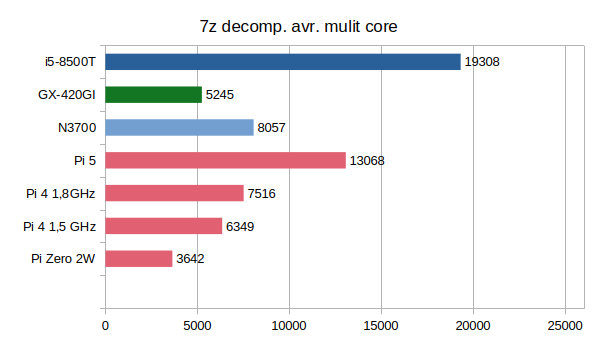
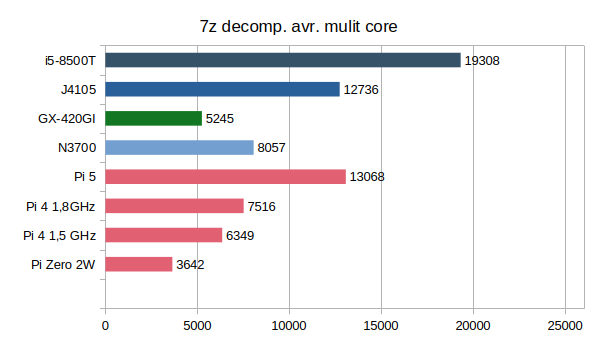
Dell Wyse 5070 (J4105)

Changed region(s): [[0.0301, 0.2353, 0.6611, 0.8235], [0.0601, 0.1471, 0.8414, 0.2059]]

diff --git a/content/post/PIvsTC.md b/content/post/PIvsTC.md
@@ -17,13 +17,11 @@ In der Lieferkettenkrise als man keine Raspberry Pi's kaufen konnte, musste man 
 
 Während der Corona-Pandemie kam es weltweit zu massiven Lieferengpässen bei Elektronikkomponenten – und der beliebte Raspberry Pi war besonders betroffen. Man konnte keine neuen bekommen oder nur zu total überzogenen Preisen. Auch die Gebrauchtpreise stiegen entsprechend. 
 
-In dieser Situation schienen sich gebrauchte Thin Clients als Alternative anzubieten. Ursprünglich für den Einsatz in Unternehmen konzipiert, bieten sie eine solide Hardwarebasis und sind oft günstig gebraucht erhältlich. Sie sind klein und sparsame aber auch mit eine ausreichend leistungsfähigen CPU (x86/AMD64) ausgestattet.    
-Ich entschied mich damals für ein Lenovo M600 (Intel N3700) und später noch für ein HP T630 (AMD GX-420GI) System. 
+In dieser Situation schienen sich gebrauchte Thin Clients als Alternative anzubieten. Ursprünglich für den Einsatz in Unternehmen konzipiert, bieten sie eine solide Hardwarebasis und sind oft günstig gebraucht erhältlich. Sie sind klein und sparsam, aber mit eine ausreichend leistungsfähigen CPU (x86/AMD64) ausgestattet.   
 
-Vergleicht man sie mit dem Raspberry Pi sticht zualler erst die gute Austattung und Erweiterbarkeit heraus. Sie Thin Clients werden zumeist mit Gehäuse, Netzteil, SSD/MMC und integrierter CPU Kühlung angeboten. Komponenten die man beim Pi erst nachkaufen muss.
-Beim RAM sind zuminest 4 GB vorhanden, der dann auch günstig auf z.B. 8 GB aufgerüstet werden kann. Beim Raspberry Pi muss man sich beim Kauf entscheiden und kann später nicht aufrüsten. Will man beim Pi5 eine M2-NVMe einsetzen, so muss man einen entsprechenden HAT kaufen. Beim Pi4 geht das nur über die USB-3.0 Schnittstelle.  
-Bei den zwei beispielhaften Thin Client kann man zwar nur M2-SATA einsetzen, aber diese sind bereits intern vorhanden (sogar 2 davon). Beim 
-M600 Kann man auch intern eine SSD einbauen.  
+Vergleicht man sie mit dem Raspberry Pi sticht zualler erst die gute Austattung und Erweiterbarkeit heraus. Die Thin Clients werden zumeist mit Gehäuse, Netzteil, SSD/MMC und integrierter CPU Kühlung angeboten. Komponenten die man beim Pi erst nachkaufen muss.
+Beim RAM sind zumindest 4 GB vorhanden, der günstig auf z. B. 8 GB aufgerüstet werden kann. Beim Raspberry Pi muss man sich beim Kauf entscheiden und kann später nicht aufrüsten. Will man beim Pi5 eine M.2-NVMe einsetzen, so muss man einen entsprechenden HAT bzw. Erweiterung kaufen. Beim Pi4 geht das nur über die USB-3.0 Schnittstelle.  
+Bei den beispielhaften Thin Client kann man zwar nur M.2-SATA einsetzen, aber diese sind bereits intern vorhanden (manche sogar mit 2). 
 Das sind doch einige Vorteile die für einen Thin Client sprechen.  
 
 Der Vorteil vom Rapsberry Pi liegt vorallem beim Energieverbrauch und natürlich bei den GPIOs. Ist eines davon kritisch für den Einsatz sollte man auf den Rapsberry Pi setzen!
@@ -37,12 +35,11 @@ Mögliche Händler:
  - Ebay - https://www.ebay.de und https://www.ebay.at
  - RAM-König - https://www.ram-koenig.de/
 
-Eine gute Webseite die sich mit der Analyse von Thin Clients gewidmet hat ist https://www.parkytowers.me.uk/thin/hp/t530/linux.shtml    
-
+Eine gute Webseite die sich mit der Analyse von Thin Clients gewidmet hat ist https://www.parkytowers.me.uk/thin/ .  
 
 
 Unabhängig von den offensichtlichen Unterschieden wollte ich mir den Energieverbrauch und die CPU Performance genauer ansehen.   
-Vorweg der Vergleich der CPU Leistung bei so unterschiedlichen Archikteuren ist schwierig und es kommt sehr auf den Benchmark an. Leider kann man die Systeme also nicht abschließend Bewerten, sondern es kommt immer auf den Einsatz an.
+Vorweg der Vergleich der CPU Leistung bei so unterschiedlichen Architiekturen ist schwierig und es kommt sehr auf den Benchmark an. Leider kann man die Performance also nicht abschließend bewerten, sondern es kommt immer auf den Einsatz an.
 
 ## Vor- und Nachteile
 
@@ -50,8 +47,8 @@ Vorweg der Vergleich der CPU Leistung bei so unterschiedlichen Archikteuren ist 
 
 &#x2705; Gebraucht günstiger als Pi4/Pi5 mit Komplettaustattung  
 &#x2705; RAM erweiterbar  
-&#x2705; M2 Sockel (NVMe oder SATA) und SATA  
-&#x2705; x86/AMD64, Möglicherweise Windows kompatibel  
+&#x2705; M.2 Sockel (NVMe oder SATA) und SATA, evtl auch eMMC  
+&#x2705; x86/AMD64, bessere Kompatibilität (z.B. Proxmox)  
 &#x2B55; Gebrauchtes günstiges Modell muss gefunden werden  
 &#x2705; Nachhaltig, Umweltschonender, Recycling
 
@@ -64,27 +61,75 @@ Vorweg der Vergleich der CPU Leistung bei so unterschiedlichen Archikteuren ist 
 &#x2705; CPU übertaktbar   
 &#x2B55; Netzteil, Lüfter und Gehäuse muss extra erworben werden.  
 &#x2B55; RAM nicht erweiterbar  
-&#x2B55; NVMe erst ab Pi5  
+&#x2B55; NVMe erst ab Pi5 mit Erweiterungshardware möglich
 
 
 ## Energieverbrauch 
 
 
-| System          | Idle power (W) | Full power (W) |
-| --------------- | -------------  | -------------- |
-| M600 (N3700)    | 6,9            | 12,6           |
-| T630 (GX-420GI) | 4,2            | 22,3           |
-| 720q (i5-8500T) | 15             | 60             |
-| Pi 4\*          | 3,4            | 7,1            |
-| Pi 4\* @ 1.8 GHz| 3,4            | 9,1            |
-| Pi 5\*          | 3,6            | 8-11,5         |
+| System                     | CPU             | Idle power (W) | Full power (W) |
+| -------------------------- | --------------- | -------------  | -------------- |
+| Lenovo ThinkCentre M600    | Intel N3700     | 6,9            | 12,6           |
+| HP T630                    | AMD GX-420GI    | 4,2            | 22,3           |
+| Dell Wyse 5070 \'          | Intel J4105     | 2,5            | 11,7           |
+| Lenovo ThinkCentre 720q \# | Intel i5-8500T  | 15             | 60             |
+| Raspberry Pi 4\*           | Bradcom BCM2711 | 3,4            | 7,1            |
+| Raspberry Pi 4\* @ 1.8 GHz | Bradcom BCM2711 | 3,4            | 9,1            |
+| Raspberry Pi 5\*           | Bradcom BCM2712 | 3,6            | 8-11,5         |
 
-\* with Fan and Raspberry Pi Power Supply 
+\' only eMMC Storage  
+\# with Nvidia GT1030  
+\* with Fan and Raspberry Pi Power Supply  
 
 Powermeter: Shelly Plug-S
 
-Man sieht das gute Thin Clients nahe an den Idle Verbrauch der Pis herankommen. Für mich die wichtigste Kenngröße da meine Systeme zumeinst in Leerlauf arbeiten. 
-Energiesparende Intel CPUs (6 Watt) brauchen unter Vollast aber auch nur geringfügig mehr als die ARM Prozessoren.   
+Man sieht das gute Thin Clients nahe an den Idle Verbrauch der Pis herankommen bzw. bei Dell Wyse 5070 sogar unterbieten. Für mich die wichtigste Kenngröße da meine Systeme zumeinst in Leerlauf arbeiten. 
+Energiesparende Intel CPUs (6/10 Watt) brauchen unter Vollast aber auch nur geringfügig mehr als die ARM Prozessoren.   
+🏆 **Besonders empfehlenswert ist der Dell Wyse 5070, er ist senergiesparent, fast so schnell wie Pi 5 und kostengünstig gebraucht verfügbar.** Die Premiumvariante mit J5005 Prozessor ist sogar noch ca. 12 % schneller.
+
+
+## Thin Client Modelle Vor- und Nachteile
+
+### HP T630
+
+&#x2705; Passive Kühlung  
+&#x2705; 2x M.2 Sockel (SATA)  
+&#x2705; Interner USB Steckplatz  
+&#x2B55; Kein SATA  
+&#x2705; 2x DDR4 SO-DIMM-Sockel 1866 MT/s  
+&#x2705; Niedriger Energieverbrauch bei Leerlauf  
+&#x2B55; Hoher Energieverbrauch bei Last  
+&#x2705; Teilweise sehr niedrige Gebrauchtpreise
+
+
+### Dell Wyse 5070 🏆
+
+&#x2705; Passive Kühlung  
+&#x2705; Hochwertiger 16/32 GB eMMC Speicher  
+&#x2705; 1x M.2 Sockel (SATA)  
+&#x2B55; Kein SATA / zweiter M.2 Sockel   
+&#x2705; 2x DDR4 SO-DIMM-Sockel 2400 MT/s  
+&#x2705; Sehr niedriger Energieverbrauch
+
+
+### Lenovo ThinkCentre M600
+
+&#x2B55; Aktive Kühlung  
+&#x2705; SATA und M.2 Sockel (SATA)  
+&#x2B55; 1x DDR3L SO-DIMM-Sockel 1600 MT/s  
+&#x2705; Niedriger Energieverbrauch
+
+
+### Lenovo ThinkCentre 720q
+
+&#x2705; Leistungstarke Windows 11 komp. CPU  
+&#x2B55; Aktive Kühlung  
+&#x2705; SATA und NVMe M.2 Sockel  
+&#x2705; 2x DDR4 SO-DIMM-Sockel 2666 MT/s  
+&#x2B55; Hoher Energieverbrauch bei Vollast  
+&#x2705; Mit LP PCIe-Karte erweiterbar (benötigt Raiser Karte)
+
+
 
 ## CPU - Benchmark Programme
 
@@ -100,6 +145,7 @@ Es kamen folgende Benchmark programme zum Einsatz:
 wget http://www.math.utah.edu/~mayer/linux/nbench-byte-2.2.3.tar.gz
 tar xzvf nbench-byte-2.2.3.tar.gz
 cd nbench-byte-2.2.3
+apt install build-essential
 make
 ./nbench
 ```
@@ -115,6 +161,10 @@ sudo apt install libncurses5
 
 in dem Fall muss man sich die alte Version deshalb manuell installieren. 
 
+
+```
+sudo apt install unzip libcurl4-openssl-dev
+```
 
 <!-- 
 wget http://ftp.de.debian.org/debian/pool/main/n/ncurses/libncurses5_6.4-4_armhf.deb 
@@ -149,7 +199,8 @@ cd PerformanceTest
 
 ```
 wget http://ftp.de.debian.org/debian/pool/main/n/ncurses/libncurses5_6.4-4_amd64.deb
-sudo apt install ./libncurses5_6.4-4_arm64.deb
+wget http://ftp.de.debian.org/debian/pool/main/n/ncurses/libtinfo5_6.4-4_amd64.deb
+sudo apt install ./libncurses5_6.4-4_amd64.deb ./libtinfo5_6.4-4_amd64.deb
 ```
 
 
@@ -167,6 +218,7 @@ Press: n
 
 ```
 sudo apt install p7zip-full
+7z b
 ```
 
 ## Benchmark Ergebnisse
@@ -178,16 +230,17 @@ sudo apt install p7zip-full
 
 Hier scheint der Benchmark neuere x86 Architekturen besser zu bewerten.
 Der Intel i5-8500T hat ein überproportional gutes Ergebnis, ist er wirklich 3x so schnell wie der Pi5?  
+Der J4105 schlägt in diesem Test den Pi 5, ansonsten ist er immer unterlegen.  
 Der Pi4 performt im Vergleich zu Pi5 sehr schlecht.
 
 
 **nbench:**
 
-![Passmark](../../img/PIvsTC_nbench.png) 
+![nBench](../../img/PIvsTC_nbench.png) 
 
 
-Der alte Benchmark von 1995 testet nur einen Kern. Hier sind Pi5 und i5-8500T gar nicht so weit auseinander. Die Intel CPU ist ca. doppelt so schnell wie der BCM2712 (auf alle Kerne gerechnet). Der Pi5 ist ca. doppelt so schnell wie der Pi4.
-
+Der alte Benchmark von 1995 testet nur einen Kern. Hier sind Pi5 und i5-8500T gar nicht so weit auseinander. Die Intel CPU ist ca. doppelt so schnell wie der BCM2712 (auf alle Kerne gerechnet). Der J4105 unterliegt in diesem Test sehr deutlich dem Pi 5, ansonsten sind sie ja ähnlich performant.  
+Der Pi5 ist ca. doppelt so schnell wie der Pi4. 
 
 
 **7-zip:**
@@ -196,4 +249,5 @@ Der alte Benchmark von 1995 testet nur einen Kern. Hier sind Pi5 und i5-8500T ga
 
 ![7-zip Packen](../../img/PIvsTC_7z-comp.png) 
 
-Die Perfromance von 7-zip unterscheidet sich stark beim Komprimieren und Dekomprimieren. Beim Entpacken schlägt sich die ARM Architektur besonders gut. Der AMD Prozesser fällt dabei besonders zurück obwohl er bei Komprimieren gleich auf ist.
+Die Perfromance von 7-zip unterscheidet sich stark beim Komprimieren und Dekomprimieren. Beim Entpacken schlägt sich die ARM Architektur besonders gut. Der AMD Prozesser fällt dabei besonders im vergleich zum Pi 4 zurück, obwohl er bei Komprimieren gleich auf ist.
+Der J4105 liegt leicht hinter dem Pi 5. Der bessere J5005 Prozesser würde ihn wohl schlagen.   
